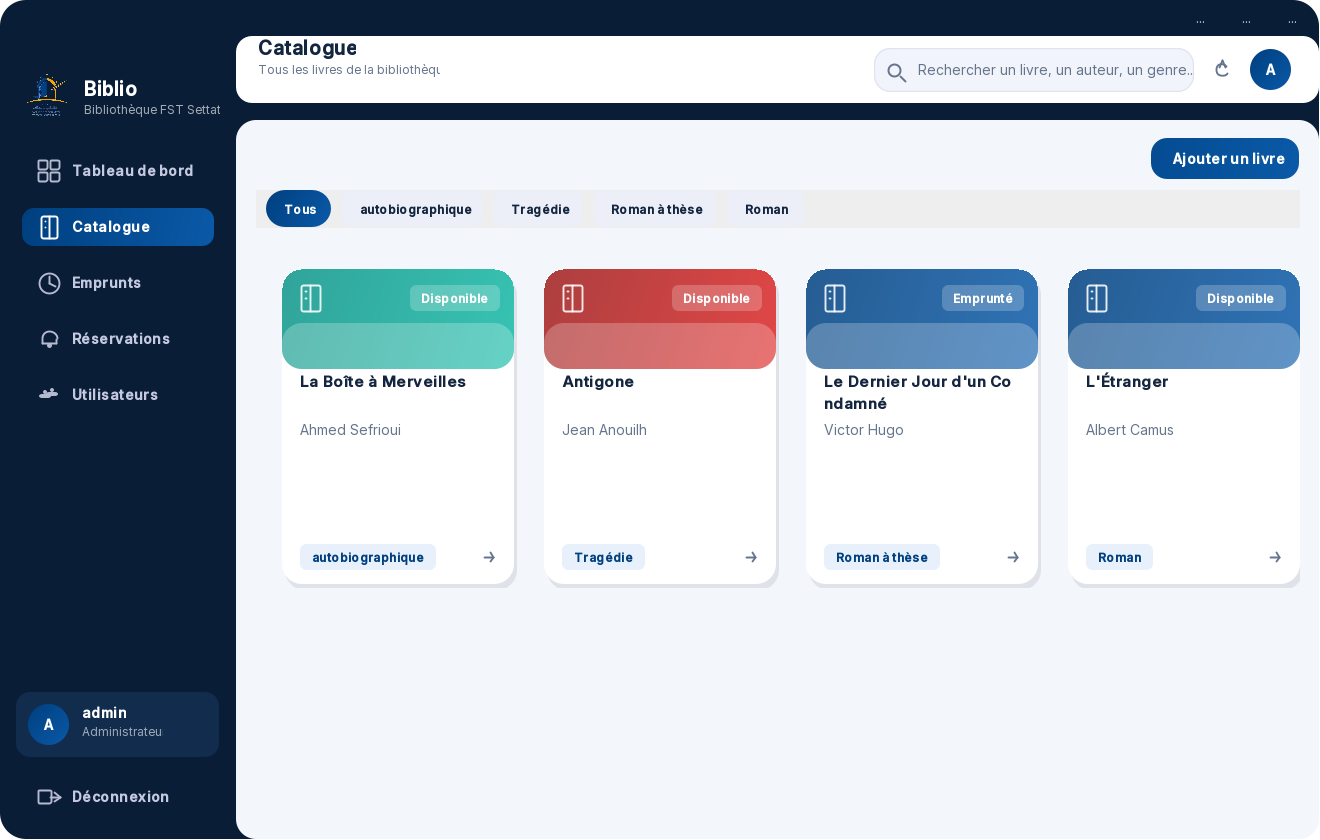
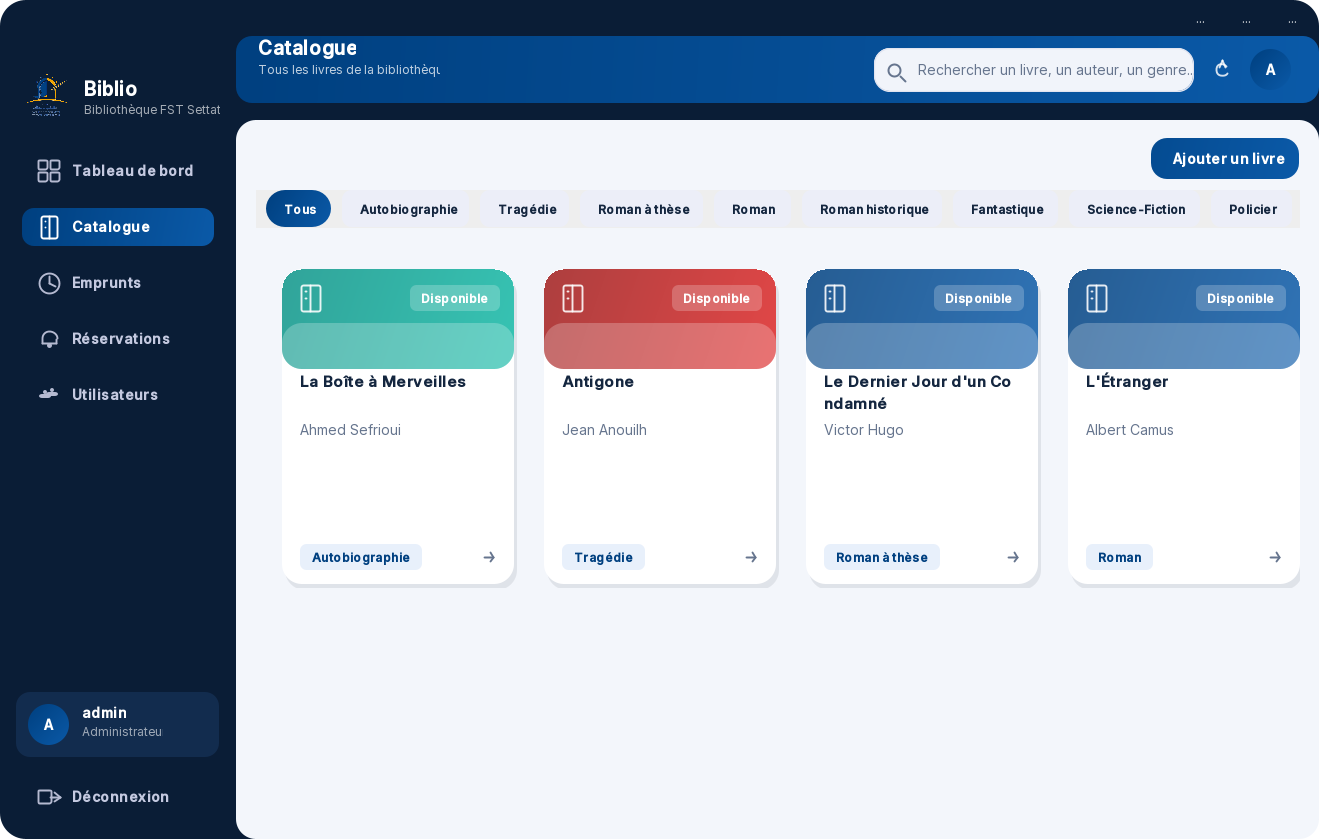
Update top header bar with blue background gradient and white text

diff --git a/src/gui/BiblioGUI.java b/src/gui/BiblioGUI.java
@@ -104,7 +104,8 @@ public class BiblioGUI extends JFrame {
         wrap.setOpaque(false);
         wrap.setBorder(BorderFactory.createEmptyBorder(0, 0, 16, 0));
 
-        RoundedPanel head = new RoundedPanel(Color.WHITE, 16);
+        RoundedPanel head = new RoundedPanel(Theme.PRIMARY, 16);
+        head.setGradient(Theme.PRIMARY, Theme.PRIMARY_2);
         head.setLayout(new BorderLayout());
         head.setBorder(BorderFactory.createEmptyBorder(0, 22, 0, 18));
 
@@ -113,10 +114,10 @@ public class BiblioGUI extends JFrame {
         tt.setLayout(new BoxLayout(tt, BoxLayout.Y_AXIS));
         pageTitle = new JLabel("");
         pageTitle.setFont(Theme.H2);
-        pageTitle.setForeground(Theme.TEXT);
+        pageTitle.setForeground(Color.WHITE);
         pageSub = new JLabel("");
         pageSub.setFont(Theme.SMALL);
-        pageSub.setForeground(Theme.MUTED);
+        pageSub.setForeground(new Color(255, 255, 255, 190));
         tt.add(pageTitle);
         tt.add(Box.createVerticalStrut(2));
         tt.add(pageSub);
@@ -136,7 +137,7 @@ public class BiblioGUI extends JFrame {
         }));
 
         IconButton refresh = new IconButton(Icons.Kind.REFRESH, 18)
-                .withColors(Theme.MUTED, new Color(235, 241, 250), Theme.PRIMARY);
+                .withColors(new Color(255, 255, 255, 210), new Color(255, 255, 255, 40), Color.WHITE);
         refresh.setToolTipText("Rafraîchir");
         refresh.addActionListener(e -> refreshAll());
 

diff --git a/src/DatabaseConnection.java b/src/DatabaseConnection.java
@@ -135,9 +135,12 @@ public class DatabaseConnection {
     // Ajoute des données de démonstration si la base est vide.
     public static void seedIfEmpty() throws SQLException {
         if (getLivres().isEmpty()) {
-            for (Livre b : SyncBooks.getAllBooks()) {
-                insertLivre(b);
-            }
+            insertLivre(new Livre(1, "La Boîte à Merveilles", "Ahmed Sefrioui", "autobiographique", "Ce roman raconte l'enfance de l'auteur à Fès, au Maroc.", true));
+            insertLivre(new Livre(2, "Antigone", "Jean Anouilh", "Tragédie", "Antigone défie le roi Créon en enterrant son frère Polynice.", true));
+            insertLivre(new Livre(3, "Le Dernier Jour d'un Condamné", "Victor Hugo", "Roman à thèse", "Un condamné à mort réfléchit à l'inhumanité de la peine de mort.", false));
+            insertLivre(new Livre(4, "L'Étranger", "Albert Camus", "Roman", "Meursault, indifférent, commet un meurtre et est jugé.", true));
+            insertLivre(new Livre(5, "Les Misérables", "Victor Hugo", "Roman historique", "La vie de Jean Valjean dans la France du XIXe siècle.", true));
+            insertLivre(new Livre(6, "Harry Potter à l'école des sorciers", "J.K. Rowling", "Fantastique", "Le jeune sorcier découvre Poudlard.", false));
         }
         // S'assure que les comptes de démonstration existent toujours.
         boolean hasDemoAdmin = false;
